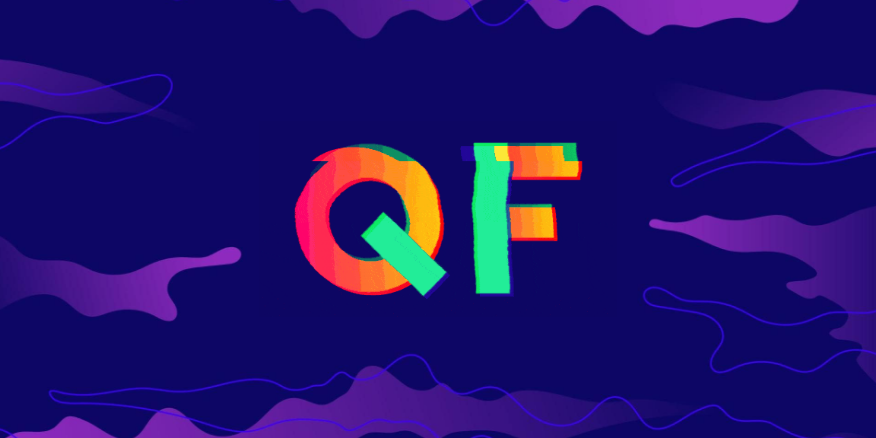
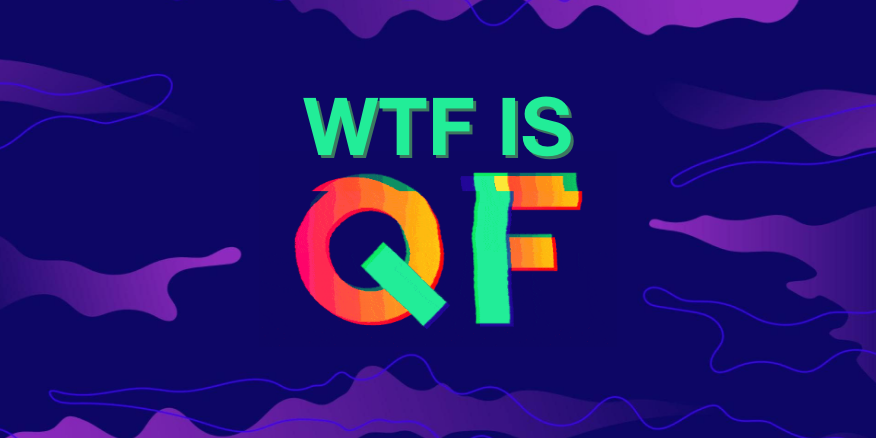
Analytics + meta update + changes

Changed region(s): [[0.3082, 0.2078, 0.6781, 0.742]]

diff --git a/pages/index.js b/pages/index.js
@@ -87,7 +87,7 @@ export default function Home() {
     <div className="container">
 
       <Head>
-        <title>Quadratic Funding | Calculator</title>
+        <title>WTF is Quadratic Funding?</title>
         <link href="https://fonts.googleapis.com/css2?family=Roboto:wght@400;500;700&display=swap" rel="stylesheet" />
         <link rel="apple-touch-icon" sizes="152x152" href="/favicons/apple-touch-icon.png" />
         <link rel="icon" type="image/png" sizes="32x32" href="/favicons/favicon-32x32.png" />
@@ -100,17 +100,27 @@ export default function Home() {
         <meta name="theme-color" content="#0f0857" />
         <meta name="description" content="Quadratic Funding is the mathematically optimal way to fund public goods in a democratic community." />
         <meta property="og:type" content="website" />
-        <meta name="og:title" property="og:title" content="Quadratic Funding | Calculator" />
+        <meta name="og:title" property="og:title" content="WTF is Quadratic Funding?" />
         <meta name="og:description" property="og:description" content="Quadratic Funding is the mathematically optimal way to fund public goods in a democratic community." />
         <meta property="og:site_name" content="QF.Gitcoin.co" />
         <meta property="og:url" content="https://qf.gitcoin.co/" />  
         <meta name="twitter:card" content="summary_large_image" />
-        <meta name="twitter:title" content="Quadratic Funding | Calculator" />
+        <meta name="twitter:title" content="WTF is Quadratic Funding?" />
         <meta name="twitter:description" content="Quadratic Funding is the mathematically optimal way to fund public goods in a democratic community." />
         <meta name="twitter:site" content="https://qf.gitcoin.co/" />
         <meta name="twitter:creator" content="https://twitter.com/_anishagnihotri" />
         <meta property="og:image" content="https://qf.gitcoin.co/metaimage.png" />
         <meta name="twitter:image" content="https://qf.gitcoin.co/metaimage.png" />
+        <script async src="https://www.googletagmanager.com/gtag/js?id=UA-102304388-4"></script>
+        <script dangerouslySetInnerHTML={
+          { __html: `
+              window.dataLayer = window.dataLayer || [];
+              function gtag(){window.dataLayer.push(arguments)}
+              gtag("js", new Date());
+              gtag("config", "UA-102304388-4");
+          `}
+        }>
+        </script>
       </Head>
 
       <div className="header">
@@ -120,15 +130,28 @@ export default function Home() {
       </div>
 
       <div className="subheader">
+        <h2>WTF IS</h2>
         <img src="/logo.gif" alt="Quadratic Funding logo" />
         <p>Quadratic Funding is the mathematically optimal way to fund public goods in a democratic community.</p>
         <img src="/formula.gif" alt="Quadratic Funding formula" />
         <p><a href="https://arxiv.org/pdf/1809.06421.pdf" target="_blank" rel="noopener noreferrer">Quadratic Funding Paper (PDF)</a> by <a href="https://twitter.com/glenweyl" target="_blank" rel="noopener noreferrer">@glenweyl</a> &amp; <a href="https://twitter.com/vitalikbuterin" target="_blank" rel="noopener noreferrer">@vitalikbuterin</a></p> 
         <p>This calculator made with &lt;3 by <a href="https://twitter.com/_anishagnihotri" target="_blank" rel="noopener noreferrer">@_anishagnihotri</a> &amp; <a href="https://twitter.com/owocki" target="_blank" rel="noopener noreferrer">@owocki</a></p>
+        <p>Design by <a href="http://gitcoin.co/guistf" target="_blank" rel="noopener noreferrer">@guistf</a> &amp; <a href="http://gitcoin.co/octavian" target="_blank" rel="noopener noreferrer">@octavian</a></p>
       </div>
 
       <div className="content">
-        <div className="content__center">
+        <div className="content__title">
+          <h1>The secret behind QF</h1>
+          <h2>It's the math&trade;</h2>
+          <p>A matching pool is raised, and then a crowdfund campaign is matched according to the QF algorithm:</p>
+          <ul>
+            <li><span><i>Number of contributors</i> matters more than <i>amount funded</i>.</span></li>
+            <li><span>This pushes power to the edges, away from whales &amp; other central power brokers.</span></li>
+            <li><span>This creates more democracy in public goods funding decisions! 🦄</span></li>
+          </ul>
+          <p>👇 Want to see the math in action? Use the calculator below! 👇</p>
+        </div>
+        <div className="content__center main__calculator">
           <div className="half-box content__center__qfamount">
             <h3>Match Amount</h3>
             <input type="number" min="0" value={match} onChange={e => setMatch(e.target.value)} placeholder="Enter $ funding match amount" />
@@ -184,8 +207,8 @@ export default function Home() {
 
       <div className="subfooter">
         <div className="content__center">
-          <h3>What if you could program support for public goods into your monetary system?</h3>
-          <p>Private goods incentive landscape + Public goods incentive landscape = </p>
+          <h3>What if you could program support for public goods into your community?</h3>
+          <p>Our goal is to align incentives between private goods &amp; public goods.</p>
           <img src="/landscape.png" alt="Combined lanscapes" />
           <div>
             <a href="https://vitalik.ca/general/2020/07/21/round6.html" target="_blank" rel="noopener noreferrer">Read more about experiments with QF</a>
@@ -351,6 +374,13 @@ export default function Home() {
         box-shadow: inset 0 3px 8px rgba(151,164,175,.05);
         border-bottom: 1px solid #e7eaf3;
       }
+      .subheader > h2 {
+        color: #00EC93;
+        font-size: 50px;
+        margin-block-start: -22.5px;
+        margin-block-end: 0px;
+        transform: translateY(22.5px);
+      }
       .subheader > img:nth-of-type(1) {
         height: 150px;
       }
@@ -388,6 +418,48 @@ export default function Home() {
         background-color: #F6F9FC;
         width: 100%;
         padding: 30px 0px;
+      }
+      .content__title {
+        width: 100%;
+        text-align: center;
+      }
+      .content__title > h1 {
+        font-size: 40px;
+        margin-block-end: 0px;
+        color: #0F0857;
+      }
+      .content__title > h2 {
+        margin-block-start: 0px;
+        color: #00D182;
+      }
+      .content__title > p {
+        font-size: 18px;
+        line-height: 27px;
+        color: rgb(107,114,128);
+        max-width: 600px;
+        margin: 0px auto;
+      }
+      .content__title > ul {
+        list-style-type: none;
+        padding: 0px;
+        max-width: 600px;
+        display: inline-block;
+        width: 0 auto;
+      }
+      .content__title > ul > li {
+        background-color: #fff;
+        display: inline-block;
+        width: 580px;
+        padding: 10px 10px;
+        border-radius: 5px;
+        margin: 5px 0px;
+        text-align: left;
+        border: 1px solid #e7eaf3;
+        text-align: center;
+      }
+      .main__calculator {
+        padding-top: 55px !important;
+        padding-bottom: 42.5px !important;
       }
       .content__center {
         width: 1000px;
@@ -471,9 +543,9 @@ export default function Home() {
         outline: none;
       }
       .counter {
-        background-color: #F6F9FC;
+        background-color: #ebf1f9;
         width: 100%;
-        padding: 30px 0px 50px 0px;
+        padding: 50px 0px 30px 0px;
         text-align: center;
       }
       .counter > span {
@@ -532,7 +604,7 @@ export default function Home() {
       }
       .subfooter {
         height: auto;
-        border-top: 2px solid ##6D1DA1;
+        border-top: 2px solid #6D1DA1;
         width: calc(100% - 40px);
         padding: 50px 20px 30px 20px;
         background-color: #070C16;
@@ -614,6 +686,9 @@ export default function Home() {
         }
         .counter > div > div {
           width: calc(100% - 40px);
+        }
+        .content__title > ul > li {
+          width: 85%;
         }
       }
       @media screen and (max-width: 1050px) {
